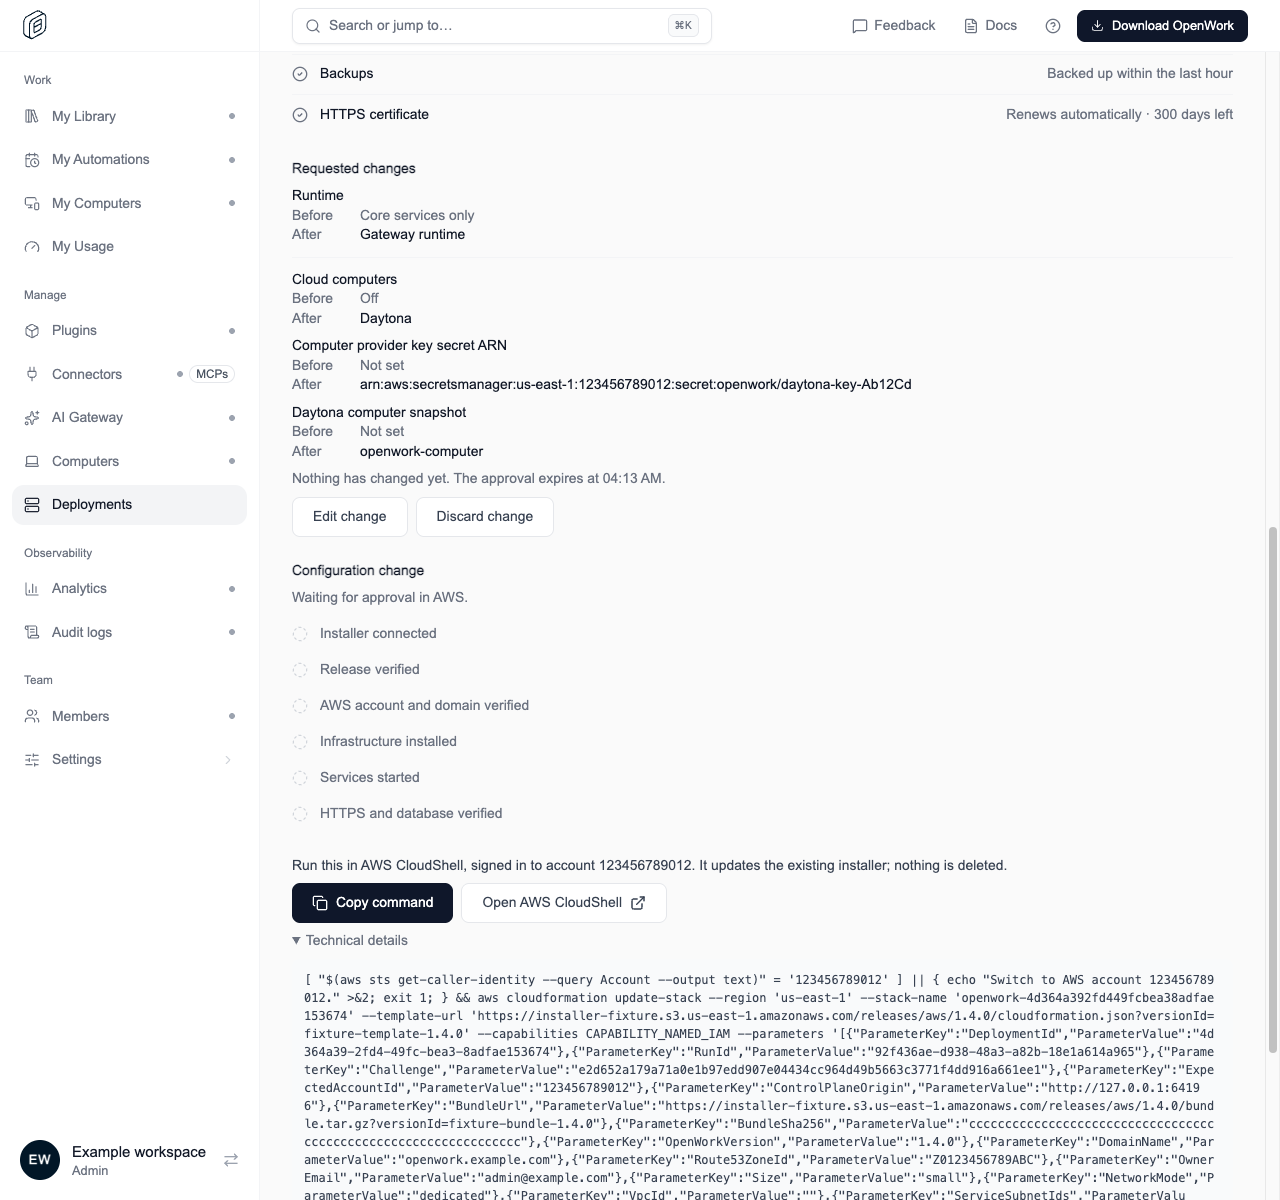
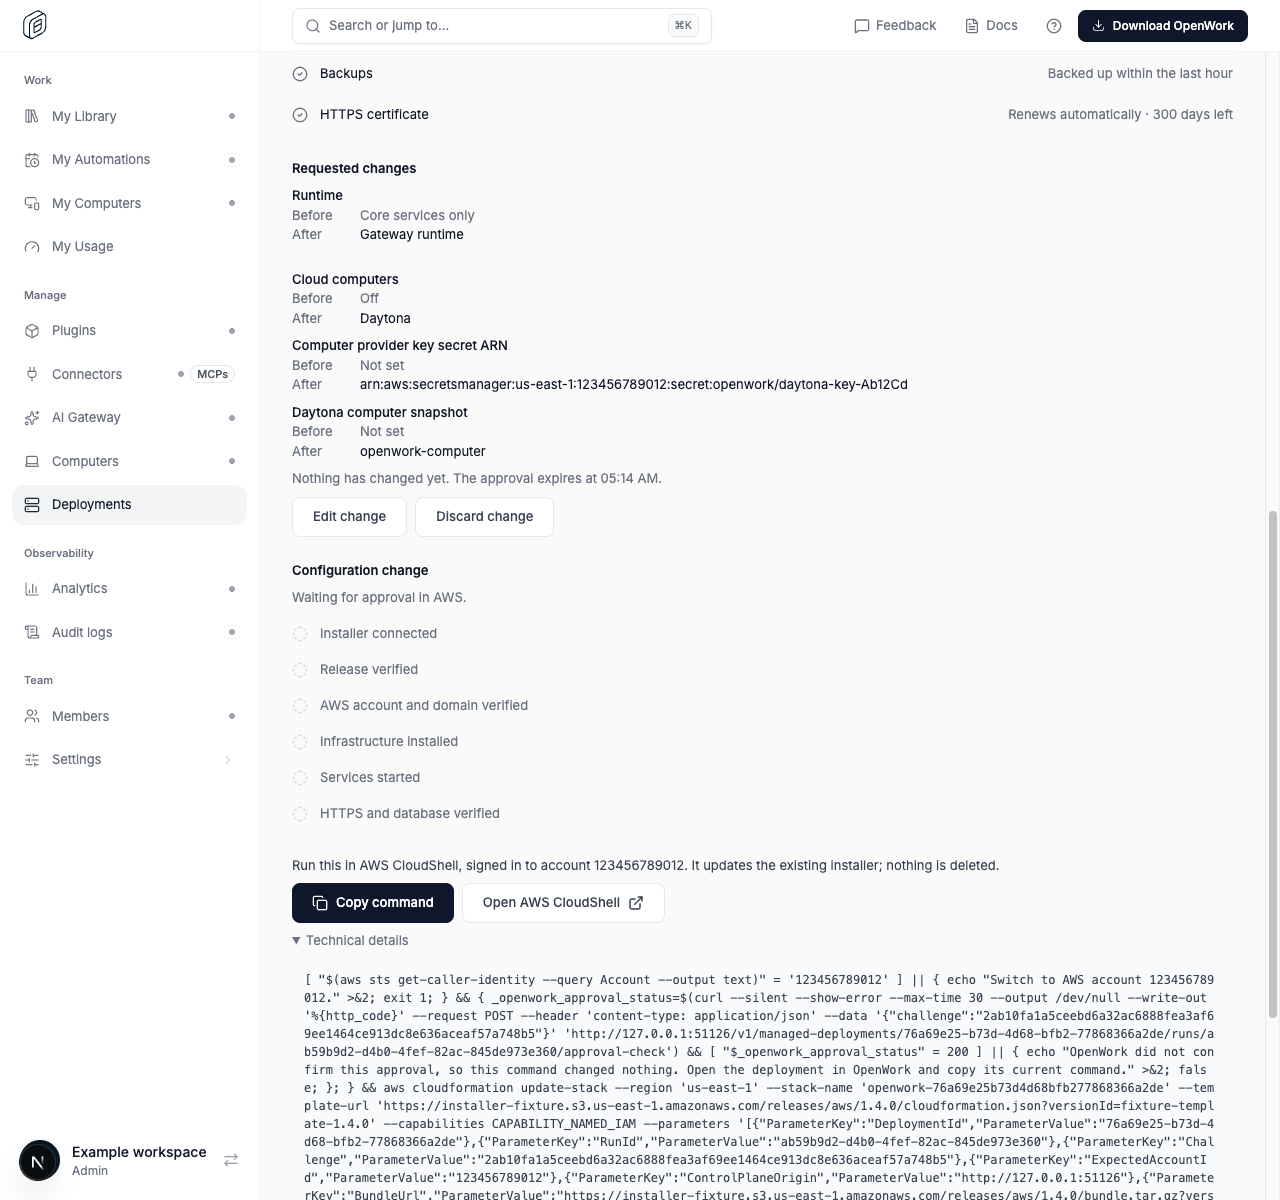
docs(deployments): attach verified configuration and guided-page screenshots

diff --git a/docs/features/managed-deployment-config-updates/README.md b/docs/features/managed-deployment-config-updates/README.md
@@ -381,6 +381,11 @@ The deployment still records the old configuration:
 
 ![Awaiting AWS approval: the requested changes, six pending steps, and the AWS CloudShell command](./awaiting-approval.png)
 
+When guided AWS sign-in is also enabled, the same editor is available from
+the deployment detail page's header:
+
+![Guided deployment detail: Edit configuration in the header, with the corrected first administrator email and unchanged installed version](./guided-deployment.png)
+
 States of a requested change, and what the page offers in each:
 
 | State | Status | Actions |
